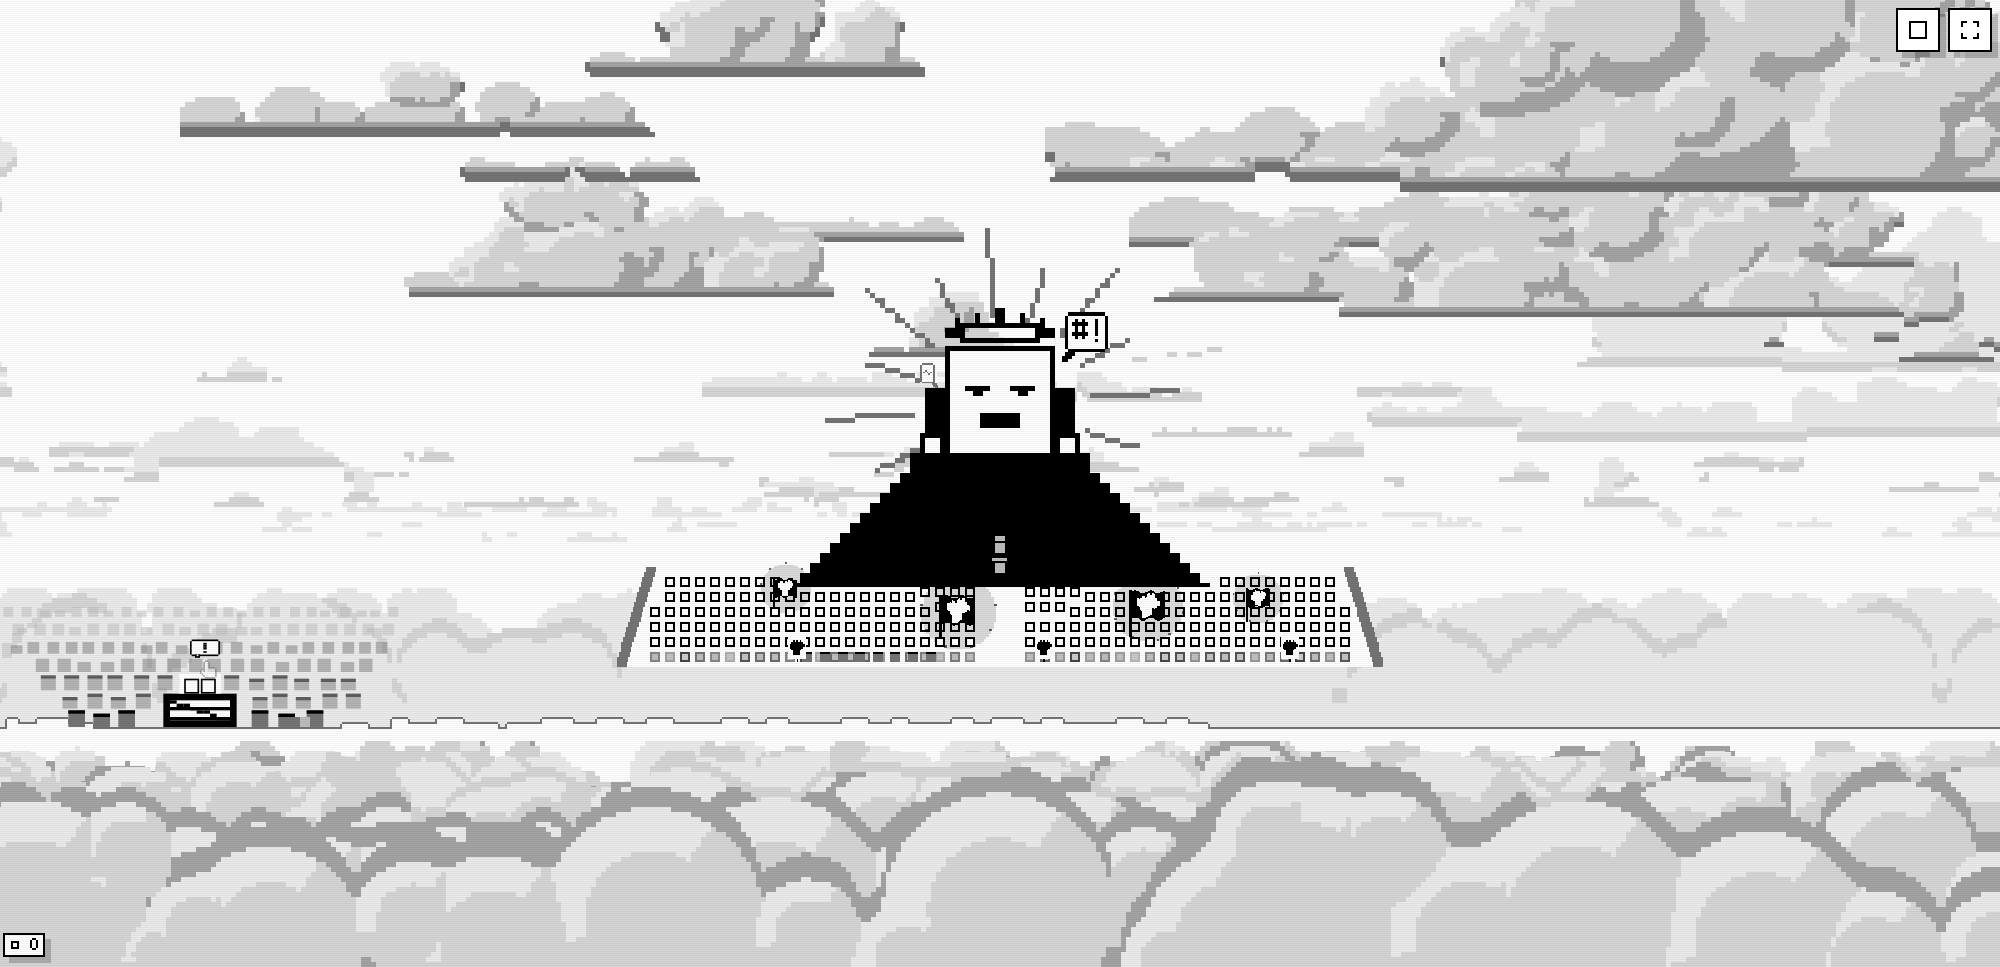
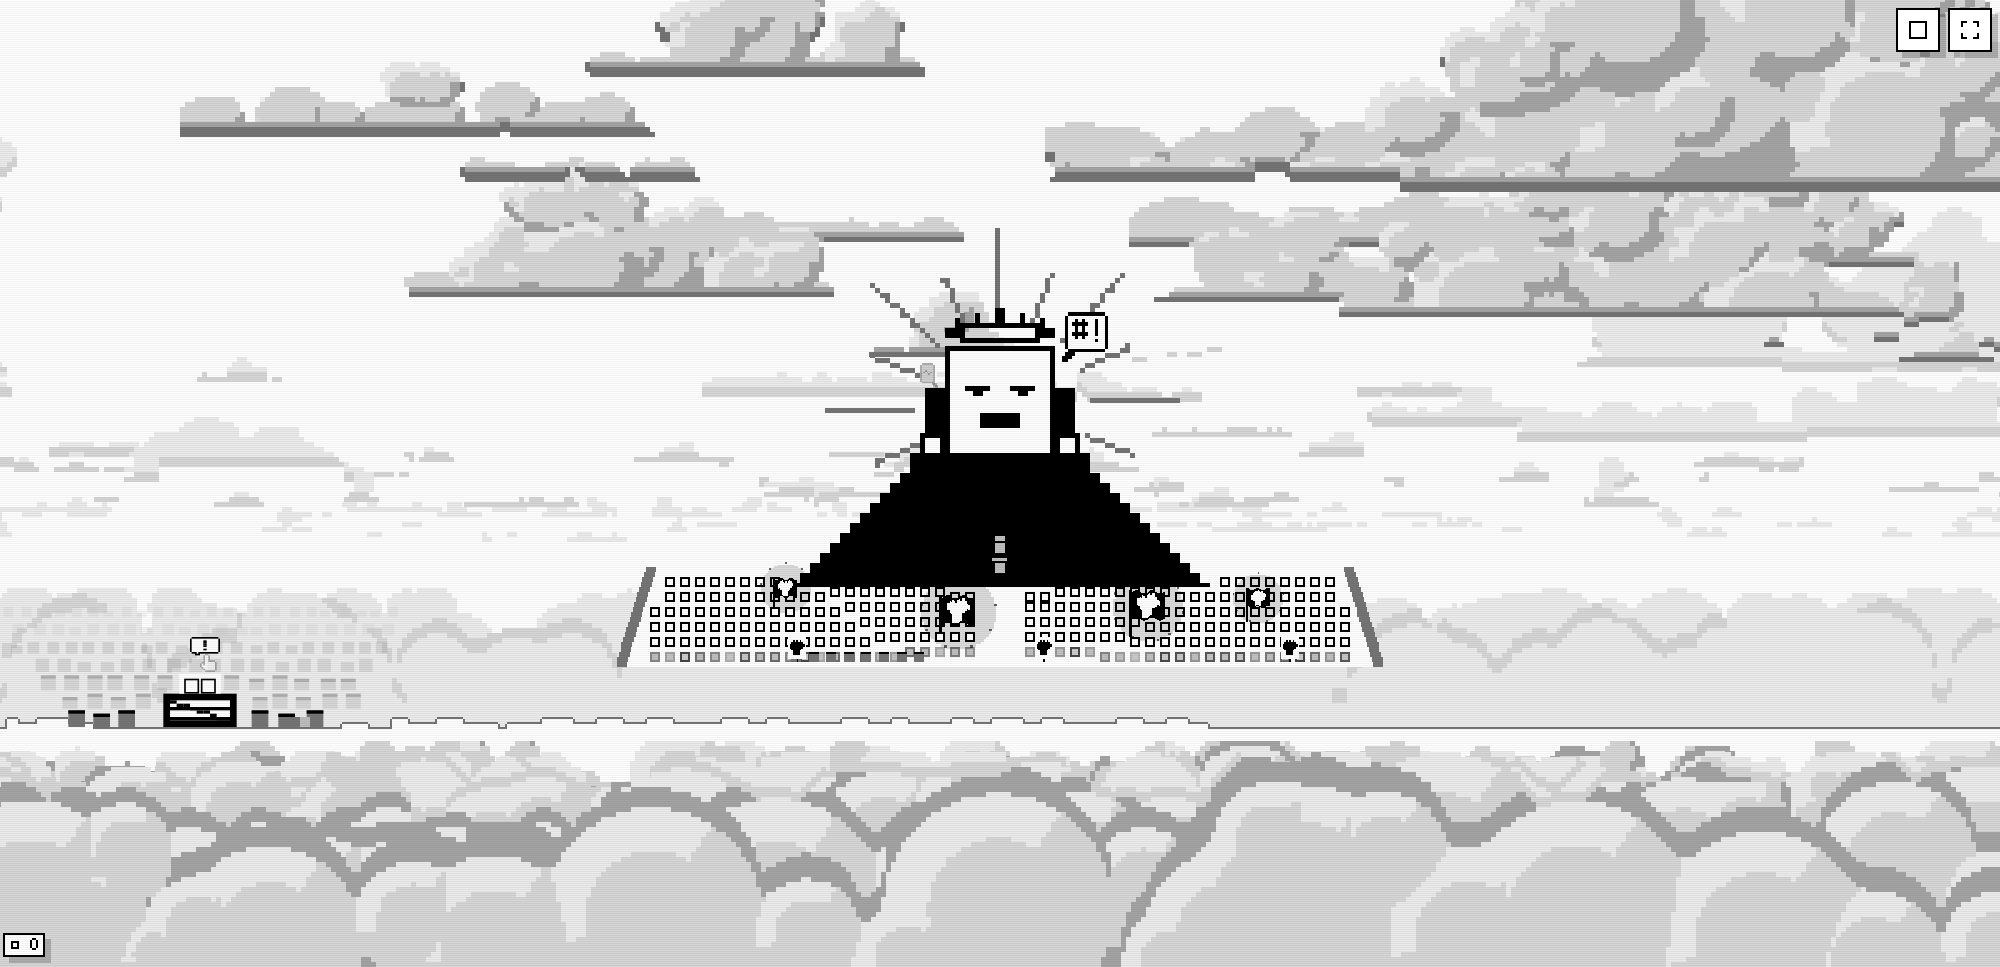
Far clouds: the before/after review

diff --git a/docs/reviews/2026-10-20-clouds-lod/index.html b/docs/reviews/2026-10-20-clouds-lod/index.html
@@ -1,0 +1,174 @@
+<!doctype html><html lang="en"><head><meta charset="utf-8"><meta name="viewport" content="width=device-width,initial-scale=1">
+<title>Far clouds drawn whole</title>
+<style>
+:root{--bg:#f2f2ef;--card:#fff;--ink:#1a1a1a;--mute:#5c5c58;--line:#d6d6d0;--well:#e8e8e4;--ok:#2f7a3b;--no:#b3261e;--scrim:rgb(20 20 20 / .97)}
+@media (prefers-color-scheme:dark){:root:not([data-theme="light"]){--bg:#141414;--card:#1f1f1f;--ink:#e6e6e6;--mute:#9a9a95;--line:#333;--well:#2a2a2a;--ok:#7fcf8b;--no:#f2b8b5}}
+:root[data-theme="dark"]{--bg:#141414;--card:#1f1f1f;--ink:#e6e6e6;--mute:#9a9a95;--line:#333;--well:#2a2a2a;--ok:#7fcf8b;--no:#f2b8b5}
+*{box-sizing:border-box}
+body{margin:0;background:var(--bg);color:var(--ink);font:15px/1.5 system-ui,-apple-system,"Segoe UI",sans-serif;overflow-x:hidden}
+main{max-width:1240px;margin:0 auto;padding:24px 16px 64px}
+h1{font-size:24px;margin:0 0 4px}.lede{color:var(--mute);max-width:80ch;margin:4px 0}.refs{font-size:12px;color:var(--mute)}
+.refs code{font-size:12px}
+.bar{position:sticky;top:0;background:var(--bg);padding:8px 0;display:flex;flex-wrap:wrap;gap:6px;align-items:center;border-bottom:1px solid var(--line);z-index:2;margin-top:12px}
+button{font:13px system-ui,sans-serif;padding:4px 10px;background:var(--card);color:var(--ink);border:1px solid var(--line);cursor:pointer}
+button:focus-visible{outline:2px solid var(--ink);outline-offset:1px}
+.bar button[aria-pressed="true"]{background:var(--ink);color:var(--bg);border-color:var(--ink)}
+.count,.status{font-size:12px;color:var(--mute)}.status.bad{color:var(--no)}
+.item{background:var(--card);border:1px solid var(--line);border-left:4px solid var(--line);padding:12px 14px;margin:14px 0;min-width:0}
+.item.approve{border-left-color:var(--ok)}.item.deny{border-left-color:var(--no)}
+.item h2{margin:2px 0 2px;font-size:17px}.tag{font-size:12px;color:var(--mute)}.what{margin:2px 0 8px;max-width:90ch}
+.shot{border-top:1px dashed var(--line);padding:8px 0}
+.shot .label{font-size:13px;color:var(--mute);margin-bottom:4px}
+.pair{display:grid;grid-template-columns:1fr 1fr;gap:10px;align-items:start}
+@media (max-width:700px){.pair{grid-template-columns:1fr}}
+figure{margin:0;min-width:0}
+figcaption{font-size:11px;letter-spacing:.08em;text-transform:uppercase;color:var(--mute);margin-bottom:2px}
+.pic{display:block;width:100%;padding:0;border:1px solid var(--line);background:var(--well);cursor:zoom-in}
+.pic img{display:block;max-width:100%;max-height:520px;margin:0 auto;height:auto}
+.px img{image-rendering:pixelated}
+.none{padding:18px 10px;font-size:13px;color:var(--mute);border:1px dashed var(--line);text-align:center}
+.note{font-size:12px;color:var(--mute)}
+.act{display:flex;flex-wrap:wrap;gap:6px;align-items:center;margin-top:8px}
+.act .ok[aria-pressed="true"]{background:var(--ok);color:var(--bg);border-color:var(--ok)}
+.act .no[aria-pressed="true"]{background:var(--no);color:var(--bg);border-color:var(--no)}
+textarea{font:14px system-ui,sans-serif;width:100%;min-height:2.4em;margin-top:6px;padding:4px 6px;background:var(--bg);color:var(--ink);border:1px solid var(--line);resize:vertical}
+.saved{font-size:11px;color:var(--mute)}
+.lb{position:fixed;inset:0;background:var(--scrim);display:flex;flex-direction:column;z-index:10;color:#eee}
+.lb[hidden]{display:none}
+.lb .top{display:flex;flex-wrap:wrap;gap:8px;align-items:center;padding:8px 12px;font-size:13px}
+.lb .top .t{flex:1;min-width:0;overflow-wrap:anywhere}
+.lb button{background:#222;color:#eee;border-color:#555}
+.lb button[aria-pressed="true"]{background:#eee;color:#111;border-color:#eee}
+.lb .stage{flex:1;min-height:0;display:flex;align-items:center;justify-content:center;padding:8px}
+.lb .stage img{max-width:100%;max-height:100%;object-fit:contain}
+.lb .side{font-size:12px;letter-spacing:.1em;text-transform:uppercase}
+.lb .hint{font-size:11px;color:#aaa;padding:0 12px 8px}
+</style></head><body><main>
+<h1 id="title"></h1>
+<p class="lede" id="lede"></p>
+<p class="refs" id="refs"></p>
+<div class="bar" id="bar"><button data-f="all" aria-pressed="true">all</button><button data-f="open">unreviewed</button><button data-f="approve">approved</button><button data-f="deny">denied</button><span class="count" id="count"></span><span class="status" id="status">connecting…</span></div>
+<div id="list"></div></main>
+<div class="lb" id="lb" hidden role="dialog" aria-modal="true" aria-label="enlarged shot">
+ <div class="top"><span class="t" id="lbt"></span><button id="lbb" aria-pressed="true">before</button><button id="lba" aria-pressed="false">after</button><button id="lbx">close</button></div>
+ <div class="stage" id="lbs"><img id="lbi" alt=""></div>
+ <div class="hint">space flips before and after · ← → step through shots · esc closes</div>
+</div>
+<script id="data" type="application/json">{"title":"Far clouds drawn whole","lede":"No cloud smaller than the grid draws whole; far clouds plain lobes in one tone; the horizon one bank; no one-cell lines or specks.","base":"de9178e1600258e2710a51b9d804e92afae97a83","head":"1772a7b156da3953d037e65c8a27f0bd12e97e24","at":"2026-10-20T17:54:49.244Z","items":[{"id":"union","title":"The union's camp","what":"the far sky as plain clouds and a horizon bank","audit":[],"shots":[{"label":"2000x967 light","before":{"src":"union/1-before.png","gif":false,"note":""},"after":{"src":"union/1-after.png","gif":false,"note":""},"pixel":false},{"label":"2000x967 dark","before":{"src":"union/2-before.png","gif":false,"note":""},"after":{"src":"union/2-after.png","gif":false,"note":""},"pixel":false},{"label":"800x600 light","before":{"src":"union/3-before.png","gif":false,"note":""},"after":{"src":"union/3-after.png","gif":false,"note":""},"pixel":false},{"label":"800x600 dark","before":{"src":"union/4-before.png","gif":false,"note":""},"after":{"src":"union/4-after.png","gif":false,"note":""},"pixel":false}]},{"id":"god","title":"God's camp","what":"the same round God's stage","audit":[],"shots":[{"label":"2000x967 light","before":{"src":"god/1-before.png","gif":false,"note":""},"after":{"src":"god/1-after.png","gif":false,"note":""},"pixel":false},{"label":"2000x967 dark","before":{"src":"god/2-before.png","gif":false,"note":""},"after":{"src":"god/2-after.png","gif":false,"note":""},"pixel":false},{"label":"800x600 light","before":{"src":"god/3-before.png","gif":false,"note":""},"after":{"src":"god/3-after.png","gif":false,"note":""},"pixel":false},{"label":"800x600 dark","before":{"src":"god/4-before.png","gif":false,"note":""},"after":{"src":"god/4-after.png","gif":false,"note":""},"pixel":false}]},{"id":"still-1x","title":"Twelve seconds at real speed","what":"the camera held, the sky at 1x","audit":[],"shots":[{"label":"1x, 12 s","before":{"src":"still-1x/1-before.gif","gif":true,"note":""},"after":{"src":"still-1x/1-after.gif","gif":true,"note":""},"pixel":false}]}]}</script>
+<script>
+const D = JSON.parse(document.getElementById('data').textContent);
+const rev = {}; let db = null, filter = 'all';
+const list = document.getElementById('list'), rows = new Map();
+const esc = s => String(s).replace(/[&<>"]/g, c => ({'&':'&amp;','<':'&lt;','>':'&gt;','"':'&quot;'}[c]));
+document.getElementById('title').textContent = D.title;
+document.getElementById('lede').textContent = D.lede;
+document.getElementById('refs').innerHTML = 'before <code>' + esc(D.base.slice(0, 8)) + '</code> · after <code>' + esc(D.head.slice(0, 8)) + '</code> · shot ' + esc(D.at.slice(0, 16).replace('T', ' ')) + ' UTC';
+
+// Every enlargeable shot in page order, for the lightbox's arrows.
+const flat = [];
+const side = (s, which) => {
+  if (!s.src) return '<div class="none">' + esc(s.note || 'not shot') + '</div>';
+  const k = flat.length;
+  return '<button class="pic" data-k="' + k + '" data-side="' + which + '" aria-label="enlarge ' + which + '"><img loading="lazy" src="' + esc(s.src) + '" alt="' + which + '"></button>' + (s.note ? '<div class="note">' + esc(s.note) + '</div>' : '');
+};
+for (const it of D.items) {
+  const el = document.createElement('article'); el.className = 'item'; el.id = it.id;
+  let shots = '';
+  it.shots.forEach((s, n) => {
+    shots += '<div class="shot' + (s.pixel ? ' px' : '') + '"><div class="label">' + (n + 1) + '. ' + esc(s.label) + '</div><div class="pair">'
+      + '<figure><figcaption>before</figcaption>' + side(s.before, 'before') + '</figure>'
+      + '<figure><figcaption>after</figcaption>' + side(s.after, 'after') + '</figure></div></div>';
+    // pushed after both sides are written, so the pair share one entry
+    flat.push({ it, n, s });
+  });
+  el.innerHTML = '<div class="tag">' + esc(it.id) + (it.audit.length ? ' · audit ' + it.audit.map(esc).join(', ') : '') + '</div>'
+    + '<h2>' + esc(it.title) + '</h2><p class="what">' + esc(it.what) + '</p>' + shots
+    + '<div class="act"><button class="ok" aria-pressed="false">approve</button><button class="no" aria-pressed="false">deny</button><span class="saved"></span></div>'
+    + '<textarea placeholder="comment (optional)" aria-label="comment on ' + esc(it.title) + '"></textarea>';
+  list.append(el);
+  const r = { it, el, ok: el.querySelector('.ok'), no: el.querySelector('.no'), note: el.querySelector('textarea'), saved: el.querySelector('.saved'), timer: null };
+  rows.set(it.id, r);
+  r.ok.onclick = () => setVerdict(r, rev[it.id]?.verdict === 'approve' ? '' : 'approve');
+  r.no.onclick = () => setVerdict(r, rev[it.id]?.verdict === 'deny' ? '' : 'deny');
+  r.note.addEventListener('input', () => { clearTimeout(r.timer); r.saved.textContent = db ? 'saving…' : 'not saved: open the published page'; r.timer = setTimeout(() => save(r), 600); });
+  r.note.addEventListener('blur', () => { if (r.timer) { clearTimeout(r.timer); save(r); } });
+}
+
+function setVerdict(r, v) { rev[r.it.id] = { ...(rev[r.it.id] || {}), verdict: v }; paint(r); save(r); }
+function paint(r) {
+  const v = rev[r.it.id]?.verdict || '';
+  r.ok.setAttribute('aria-pressed', v === 'approve'); r.no.setAttribute('aria-pressed', v === 'deny');
+  r.el.classList.toggle('approve', v === 'approve'); r.el.classList.toggle('deny', v === 'deny');
+}
+async function save(r) {
+  r.timer = null;
+  if (!db) { r.saved.textContent = 'not saved: open the published page'; render(); return; }
+  const verdict = rev[r.it.id]?.verdict || '', comment = r.note.value;
+  rev[r.it.id] = { verdict, comment };
+  try {
+    const ref = db.collection('reviews').doc(r.it.id);
+    if (!verdict && !comment.trim()) await ref.delete();
+    else await ref.set({ verdict, comment, title: r.it.title, at: new Date().toISOString() });
+    r.saved.textContent = 'saved';
+  } catch (e) { r.saved.textContent = 'not saved: ' + (e && e.code || 'error'); }
+  render();
+}
+function render() {
+  let n = 0, done = 0, ok = 0, no = 0;
+  for (const r of rows.values()) {
+    const v = rev[r.it.id]?.verdict || '';
+    if (v) done++; if (v === 'approve') ok++; if (v === 'deny') no++;
+    const show = filter === 'all' || (filter === 'open' ? !v : filter === v);
+    r.el.hidden = !show; if (show) n++;
+  }
+  for (const b of document.querySelectorAll('#bar button')) b.setAttribute('aria-pressed', b.dataset.f === filter);
+  document.getElementById('count').textContent = n + ' shown · ' + done + ' of ' + D.items.length + ' reviewed · ' + ok + ' approved · ' + no + ' denied';
+}
+document.getElementById('bar').addEventListener('click', e => { const b = e.target.closest('button'); if (b) { filter = b.dataset.f; render(); } });
+render();
+
+// The lightbox: one shot at a time, before or after, flipped in place.
+const lb = document.getElementById('lb'), lbi = document.getElementById('lbi'), lbt = document.getElementById('lbt');
+const lbb = document.getElementById('lbb'), lba = document.getElementById('lba');
+let at = 0, showing = 'before', opener = null;
+function show() {
+  const f = flat[at], s = f.s[showing].src ? showing : (showing === 'before' ? 'after' : 'before');
+  showing = s;
+  lbi.src = f.s[s].src || ''; lbi.alt = s;
+  lbi.style.imageRendering = f.s.pixel ? 'pixelated' : '';
+  lbt.textContent = f.it.title + ' — ' + (f.n + 1) + '. ' + f.s.label + '  (' + s + ')';
+  lbb.setAttribute('aria-pressed', s === 'before'); lba.setAttribute('aria-pressed', s === 'after');
+  lbb.disabled = !f.s.before.src; lba.disabled = !f.s.after.src;
+}
+function openAt(k, which) { opener = document.activeElement; at = k; showing = which; lb.hidden = false; show(); lbb.focus(); }
+function close() { lb.hidden = true; lbi.src = ''; opener?.focus?.(); }
+list.addEventListener('click', e => { const b = e.target.closest('.pic'); if (b) openAt(+b.dataset.k, b.dataset.side); });
+lbb.onclick = () => { showing = 'before'; show(); };
+lba.onclick = () => { showing = 'after'; show(); };
+document.getElementById('lbx').onclick = close;
+document.getElementById('lbs').addEventListener('click', e => { if (e.target === e.currentTarget) close(); });
+addEventListener('keydown', e => {
+  if (lb.hidden) return;
+  if (e.key === ' ' || e.key === 'Spacebar') { e.preventDefault(); showing = showing === 'before' ? 'after' : 'before'; show(); }
+  else if (e.key === 'Escape') close();
+  else if (e.key === 'ArrowRight') { at = (at + 1) % flat.length; show(); }
+  else if (e.key === 'ArrowLeft') { at = (at - 1 + flat.length) % flat.length; show(); }
+});
+
+(async () => {
+  const st = document.getElementById('status');
+  try { db = window.claude ? await window.claude.use('db') : null; } catch { db = null; }
+  if (!db) { st.textContent = 'read-only here: verdicts save only on the published page, signed in'; st.className = 'status bad'; return; }
+  st.textContent = 'saves as you go';
+  db.collection('reviews').onSnapshot(snap => {
+    const seen = new Set();
+    for (const d of snap.docs) {
+      const v = d.data() || {}; seen.add(d.id); rev[d.id] = { verdict: v.verdict || '', comment: v.comment || '' };
+      const r = rows.get(d.id);
+      if (r) { if (document.activeElement !== r.note && !r.timer) r.note.value = v.comment || ''; paint(r); }
+    }
+    for (const id of Object.keys(rev)) if (!seen.has(id)) { delete rev[id]; const r = rows.get(id); if (r && !r.timer) { r.note.value = ''; paint(r); } }
+    render();
+  }, () => { st.textContent = 'lost the connection; reload the page'; st.className = 'status bad'; });
+})();
+</script></body></html>
